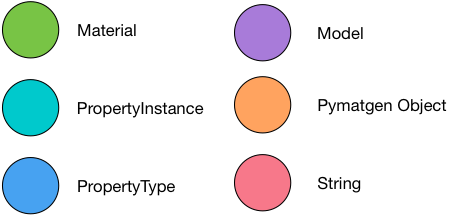
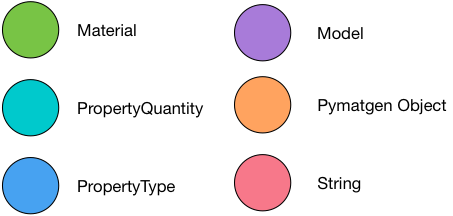
Rename PropertyInstance to PropertyQuantity

Changed region(s): [[0.1545, 0.4722, 0.4636, 0.5556]]

diff --git a/README.md b/README.md
@@ -14,17 +14,17 @@ A 'property' refers to a property of a material, such as its lattice parameter, 
 
 In Propnet, properties are rigorously defined to ensure consistent interpretations between different models, and this crucially includes explicit units and uncertainties. Where uncertainties are unknown, we apply rule-of-thumb uncertainties derived from statistical analysis of similar data to give a first-approximation of our confidence in a property.
 
-In terms of implementation, a `Property` provides information on the property itself (e.g. lattice parameter has units of length), and a `PropertyInstance` is an object that combines a `Property` with a value (e.g. 5Å), a reference for where the property came from, and edges to the materials it is associated with.
+In terms of implementation, a `Property` provides information on the property itself (e.g. lattice parameter has units of length), and a `PropertyQuantity` is an object that combines a `Property` with a value (e.g. 5Å), a reference for where the property came from, and edges to the materials it is associated with.
 
 ## Material
 
 There is a necessary distinction between a real 'material' vs. an ideal, perfect crystal. In the [Materials Project](http://materialsproject.org/)  a 'material' typically refers to the latter. However, properties can come from many sources, including experiment data where additional phases or impurities might be present.
 
-Propnet attempts to gracefully handled this distinction. A `PropertyInstance` can have edges to the material it's associated with. In the simplest case, this could be an edge to a material defined simply by its chemical formula. If the structure is known, it is represented by a [pymatgen](https://github.com/materialsproject/pymatgen) `Structure` object.
+Propnet attempts to gracefully handled this distinction. A `PropertyQuantity` can have edges to the material it's associated with. In the simplest case, this could be an edge to a material defined simply by its chemical formula. If the structure is known, it is represented by a [pymatgen](https://github.com/materialsproject/pymatgen) `Structure` object.
 
-To illustrate, a `PropertyInstance` of a lattice parameter calculated using DFT, would have an edge to a `PropertyInstance` representing a temperature of 0 K, and an edge to the `Structure` associated with it. In this case, the edge weight to the `Structure` would be 1.0, since this is an ideal, perfect material.
+To illustrate, a `PropertyQuantity` of a lattice parameter calculated using DFT, would have an edge to a `PropertyQuantity` representing a temperature of 0 K, and an edge to the `Structure` associated with it. In this case, the edge weight to the `Structure` would be 1.0, since this is an ideal, perfect material.
 
-However, if the `PropertyInstance` came from experimental data and a second impurity phase is present, it would have edges to *two* `Structure` objects, with the edge for the majority phase given a weight of, e.g., 0.99 (if it was 99% pure), and the second edge with a weight of 0.01 for the impurity phase.
+However, if the `PropertyQuantity` came from experimental data and a second impurity phase is present, it would have edges to *two* `Structure` objects, with the edge for the majority phase given a weight of, e.g., 0.99 (if it was 99% pure), and the second edge with a weight of 0.01 for the impurity phase.
 
 In the case of a property where there is a *relationship* between `Structure` objects, such as a lattice misfit, then an edge is added between the two `Structure` objects specifying this relationship, i.e. the orientation relationship.
 
@@ -57,13 +57,13 @@ An `Assumption` is associated with a property and can be something like:
 
 A `Condition` is a model requirement and can be something like:
 
-* A model could expect a lattice parameter `PropertyInstance` with the condition that the `PropertyInstance` has an edge to ` Temperature(0K)` condition, i.e. the lattice parameter is measured at 0 K.
+* A model could expect a lattice parameter `PropertyQuantity` with the condition that the `PropertyQuantity` has an edge to ` Temperature(0K)` condition, i.e. the lattice parameter is measured at 0 K.
 
 If a model has inputs where it is unknown if they satisfy its conditions (e.g. a lattice parameter property exists in the graph, but the temperature it was measured at is not specified), then it becomes an `Assumption` in the model output.
 
 ## Propagation of references and assumptions
 
-Any reference or `Assumption` associated with a `PropertyInstance` is propagated through the model and through the graph, so that when the graph is queried for the specific value of a property, the assumptions and a list of references are also supplied, in addition to the value of the property itself.
+Any reference or `Assumption` associated with a `PropertyQuantity` is propagated through the model and through the graph, so that when the graph is queried for the specific value of a property, the assumptions and a list of references are also supplied, in addition to the value of the property itself.
 
 ## Node types and edges
 
@@ -89,15 +89,15 @@ At this stage, none of the materials in Propnet will be this complex. This examp
 
 ![Simple property](docs/images/readme_property_simple.png)
 
-Once a material has been specified, we can define a property of that material, such as its lattice parameter. Above, the `PropertyInstance` node contains the value of that property, and it points to the graph's canonical `PropertyType` node that the value describes.
+Once a material has been specified, we can define a property of that material, such as its lattice parameter. Above, the `PropertyQuantity` node contains the value of that property, and it points to the graph's canonical `PropertyType` node that the value describes.
 
 ![Dependent property](docs/images/readme_property_dependent.png)
 
-A `PropertyInstance` with an edge to another `PropertyInstance` describes a dependent property: in this case, it could be the temperature at which that measurement was taken. For the first version of Propnet, all measurements are derived from 0 K DFT simulations.
+A `PropertyQuantity` with an edge to another `PropertyQuantity` describes a dependent property: in this case, it could be the temperature at which that measurement was taken. For the first version of Propnet, all measurements are derived from 0 K DFT simulations.
 
 ![Multiple properties](docs/images/readme_property_multiple.png)
 
-It is also possible to define multiple `PropertyInstances` for the same material, for example an experimental and DFT value. When evaluating the graph, the user can choose a strategy which will select the most appropriate `PropertyInstance`: for example, the user might select to always prefer DFT data, or to always prefer the `PropertyInstance` with the smallest uncertainty.
+It is also possible to define multiple `PropertyQuantitys` for the same material, for example an experimental and DFT value. When evaluating the graph, the user can choose a strategy which will select the most appropriate `PropertyQuantity`: for example, the user might select to always prefer DFT data, or to always prefer the `PropertyQuantity` with the smallest uncertainty.
 
 ![Model node](docs/images/readme_model_simple.png)
 
@@ -105,9 +105,9 @@ The simplest `Model` relates one `PropertyType` to another `PropertyType`, as sh
 
 ![Full graph](docs/images/readme_full_graph.png)
 
-Incorporating all these node types into the full graph, we can see a clear separation between data (`Materials` and their associated `PropertyInstances`), and logic (`Models` and their associated `PropertyTypes`, which form the input and output of `Models`).
+Incorporating all these node types into the full graph, we can see a clear separation between data (`Materials` and their associated `PropertyQuantitys`), and logic (`Models` and their associated `PropertyTypes`, which form the input and output of `Models`).
 
-To 'solve' the graph, we look for `PropertyType` nodes that do not have any associated `PropertyInstances`, and then from the graph topology see if there is a route to calculate this property. If a route exists, the property is calculated, and a new `PropertyInstance` inserted into the graph.
+To 'solve' the graph, we look for `PropertyType` nodes that do not have any associated `PropertyQuantitys`, and then from the graph topology see if there is a route to calculate this property. If a route exists, the property is calculated, and a new `PropertyQuantity` inserted into the graph.
 
 
 # Guidelines for Contributions
@@ -167,7 +167,7 @@ When contributing a model, to add additional documentation please place a Markdo
 
 **PropertyType:** (or "Property") A distinct physical *Quantity,* such as lattice parameter or temperature
 
-**PropertyInstance:** Refers to a *Quantity* and its associated *PropertyType*, as well as any associated metadata such as references, that is typically associated with a *Material* (this may be renamed later)
+**PropertyQuantity:** Refers to a *Quantity* and its associated *PropertyType*, as well as any associated metadata such as references, that is typically associated with a *Material* (this may be renamed later)
 
 **Quantity:** Refers to a *value* which can be a scalar/vector/matrix/tensor and its associated *unit*
 
